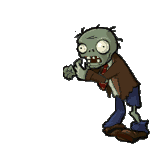
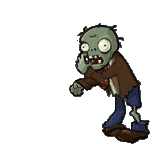
zombie animation (res sucks)

diff --git a/src/levels/level1.cpp b/src/levels/level1.cpp
@@ -28,19 +28,7 @@ namespace PvZ {
     GameState Level1::play(Event& event) {
         drawSprite(sprites->background);
         drawSprite(sprites->topbar);
-        while (window.pollEvent(event)) {
-            switch (event.type) {
-                case Event::Closed:
-                    window.close();
-                    return GameState::MAIN_MENU;
-                case Event::KeyPressed:
-                    if (event.key.code == Keyboard::Escape) {
-                        return GameState::MAIN_MENU;
-                    }
-                default:
-                    break;
-            }
-        }
+        
         // bool zombieLeft{false};
         for (auto it{ actors.begin() }; it != actors.end();) {
             if (!(*it)->action()) {
@@ -56,6 +44,21 @@ namespace PvZ {
         // if (!zombieLeft) {
         //     return GameState::GAME_WIN;
         // }
+        
+        while (window.pollEvent(event)) {
+            switch (event.type) {
+                case Event::Closed:
+                    window.close();
+                    return GameState::MAIN_MENU;
+                case Event::KeyPressed:
+                    if (event.key.code == Keyboard::Escape) {
+                        return GameState::MAIN_MENU;
+                    }
+                default:
+                    break;
+            }
+        }
+
         return GameState::PLAY;
     }
 }

diff --git a/src/zombies/RegularZombie.cpp b/src/zombies/RegularZombie.cpp
@@ -6,22 +6,25 @@ namespace PvZ {
         string root_path{ "res/img/zombie_" }, idle_path{ root_path + "idle/" }, walk_path{ root_path + "walk/" },
             attack_path{ root_path + "attack/" }, death_path{ root_path + "death/" }, ext{ ".png" };
         for (short i : range(1, IDLE_FRAMES + 1)) {
-            idle[i].loadFromFile(idle_path + to_string(i) + ext);
+            idle[i - 1].loadFromFile(idle_path + to_string(i) + ext);
         }
         for (short i : range(1, WALK_FRAMES + 1)) {
-            walk[i].loadFromFile(walk_path + to_string(i) + ext);
+            walk[i - 1].loadFromFile(walk_path + to_string(i) + ext);
         }
         for (short i : range(1, ATTACK_FRAMES + 1)) {
-            attack[i].loadFromFile(attack_path + to_string(i) + ext);
+            attack[i - 1].loadFromFile(attack_path + to_string(i) + ext);
         }
         for (short i : range(1, DEATH_FRAMES + 1)) {
-            death[i].loadFromFile(death_path + to_string(i) + ext);
+            death[i - 1].loadFromFile(death_path + to_string(i) + ext);
         }
     }
 
     RegularZombie::RegularZombie(ms spawnTime) : Zombie{ 10, 100ms, 100ms, spawnTime } {}
 
     bool RegularZombie::action() {
+        Vector2f pos{ 200.f, 200.f };
+
+        drawSprite(attackFrames.getFrame(pos));
         return true;
     }
 

diff --git a/inc/zombies/RegularZombie.hpp b/inc/zombies/RegularZombie.hpp
@@ -11,7 +11,7 @@ namespace PvZ {
      */
     class RegularZombie : public Zombie {
     private:
-        static inline const short IDLE_FRAMES{ 11 }, WALK_FRAMES{ 22 }, ATTACK_FRAMES{ 21 }, DEATH_FRAMES{ 20 };
+        static inline const short IDLE_FRAMES{ 11 }, WALK_FRAMES{ 22 }, ATTACK_FRAMES{ 20 }, DEATH_FRAMES{ 20 };
         class Textures {
         public:
             Texture idle[IDLE_FRAMES], walk[WALK_FRAMES], attack[ATTACK_FRAMES], death[DEATH_FRAMES];

diff --git a/src/Util.cpp b/src/Util.cpp
@@ -71,7 +71,8 @@ namespace PvZ {
         auto now{ clk::now() };
         if (now - lastFrame >= frameInterval) {
             lastFrame = now;
-            currentFrame = (currentFrame + 1) % frameCount;
+            currentFrame++;
+            currentFrame %= frameCount;
         }
         sprites[currentFrame].setPosition(position);
         return sprites[currentFrame];

diff --git a/inc/Util.hpp b/inc/Util.hpp
@@ -78,7 +78,7 @@ namespace PvZ {
      */
     void setWindow(Vector2u windowSize, short frameRate, bool VSync, bool customCursor);
 
-    constexpr inline chrono::duration<double, std::ratio<1, 24>> frameInterval{ 1s };
+    constexpr inline chrono::duration<double, std::ratio<1, 24>> frameInterval{ 1.0 };
 
     class Frames {
     private:
